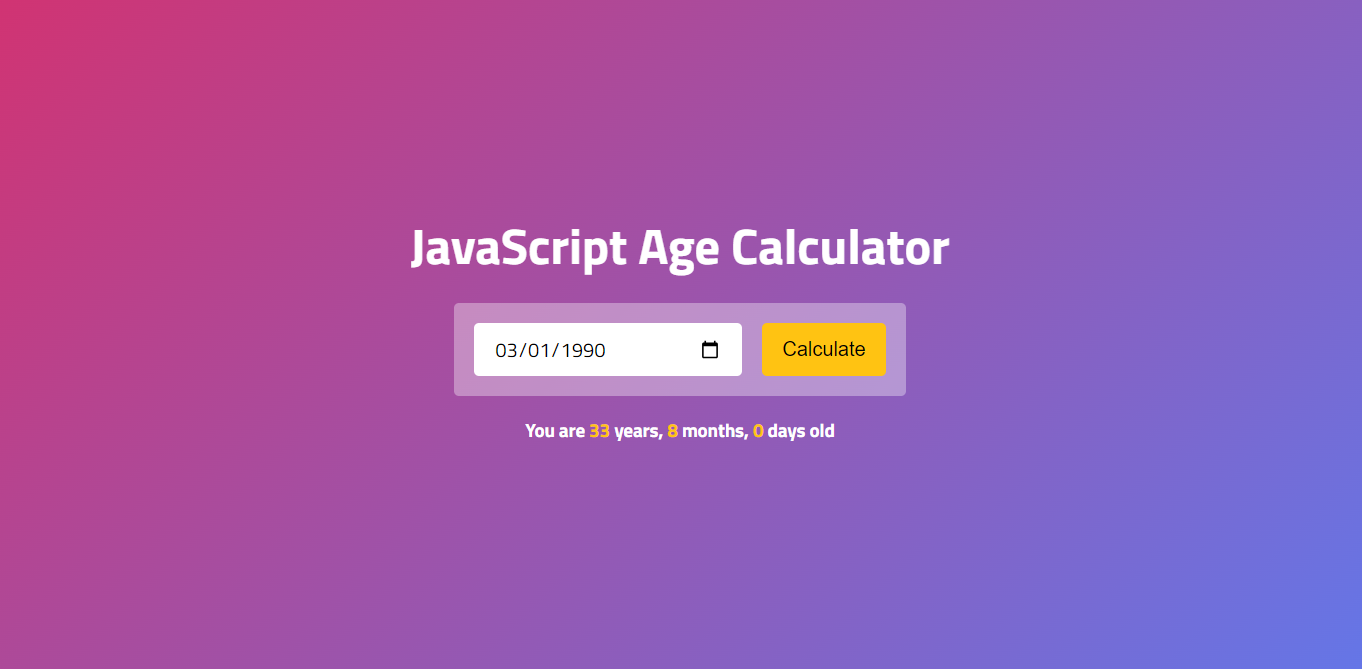
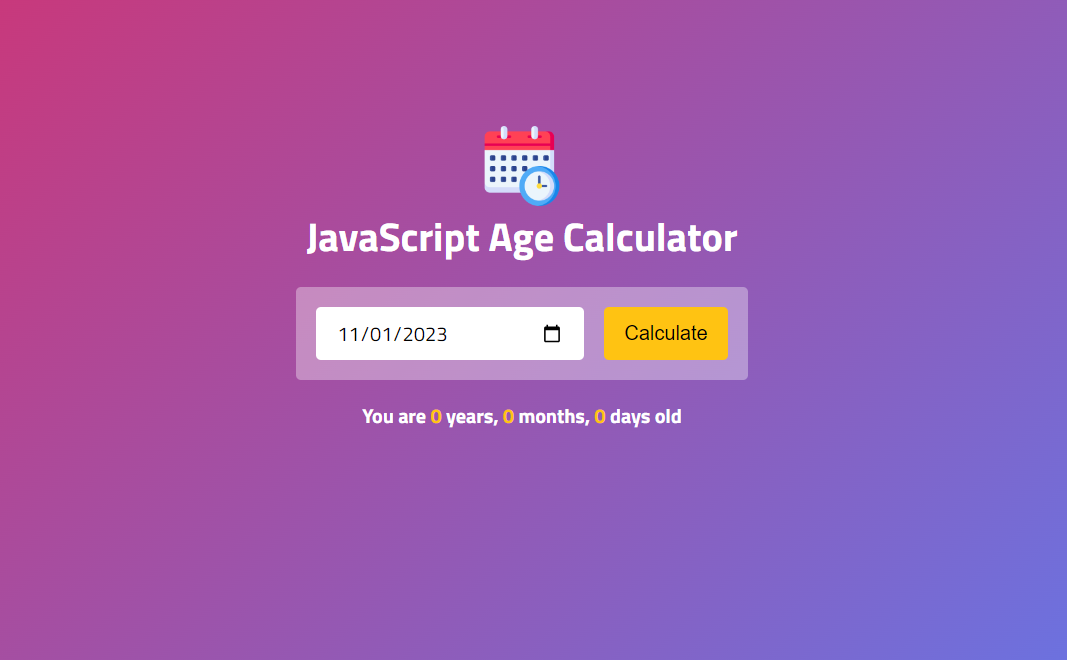
fixed a little css issue

Changed region(s): [[0.2784, 0.1818, 0.7113, 0.6667]]

diff --git a/style.css b/style.css
@@ -44,7 +44,7 @@ body {
   margin-bottom: 2rem;
 }
 .container .image {
-  width: 100%;
+  width: 8rem;
   max-width: 8rem;
 }
 
